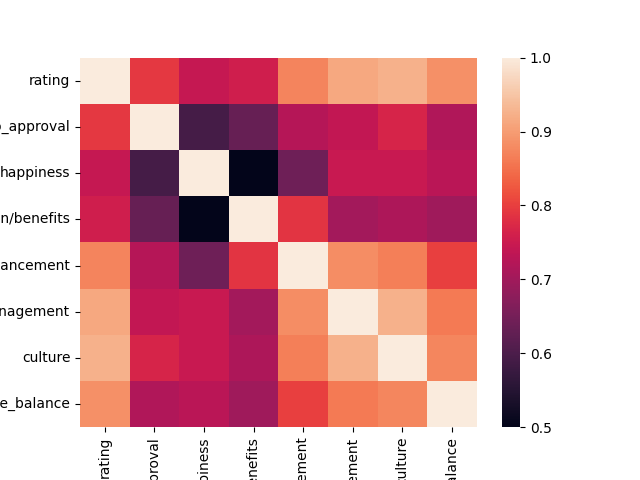
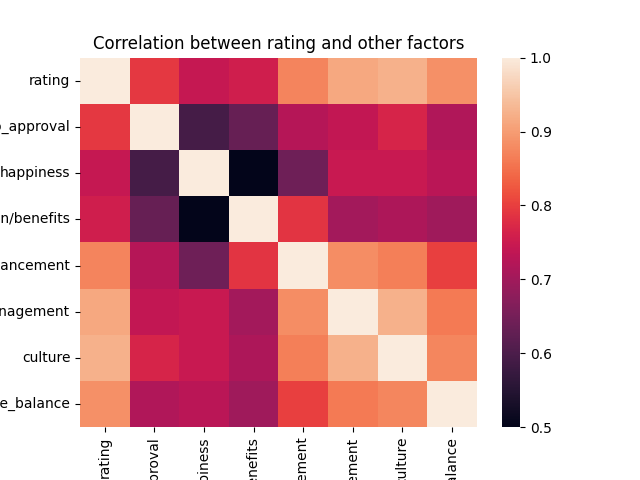
Fix: Chart missing title and xlabel with bad format

Changed region(s): [[0.1562, 0.0625, 0.7188, 0.125]]

diff --git a/src/dataAnalysis.py b/src/dataAnalysis.py
@@ -68,6 +68,7 @@ def show_best_rating_correlation():
     plt.figure()
     sns.heatmap(company_data[['rating', 'ceo_approval', 'happiness', 'compensation/benefits', 
         'job_security/advancement', 'management', 'culture', 'work_life_balance']].corr(), xticklabels=True, yticklabels=True, vmin=0.5, vmax=1.0)
+    plt.title("Correlation between rating and other factors")
     plt.show()
 
 
@@ -219,5 +220,5 @@ def show_ceo_approval_rating_correlation():
 '''
 
 # ======== Call Method ========
-show_revenue_rating_correlation()
+show_ceo_approval_rating_correlation()
 
